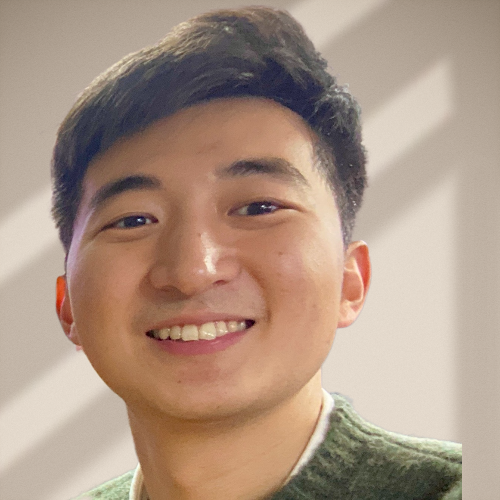
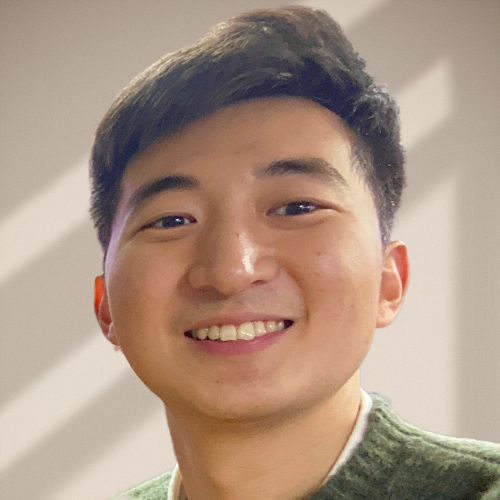
fix: Replace pic

diff --git a/index.html b/index.html
@@ -109,7 +109,7 @@
                     </p>
                   </td>
                   <td style="padding: 2.5%; width: 30%; max-width: 40%">
-                    <a href="images/Seongwon_Yoon_head.jpg"
+                    <a href="images/IMG_9710.jpg"
                       ><img
                         style="
                           width: 100%;
